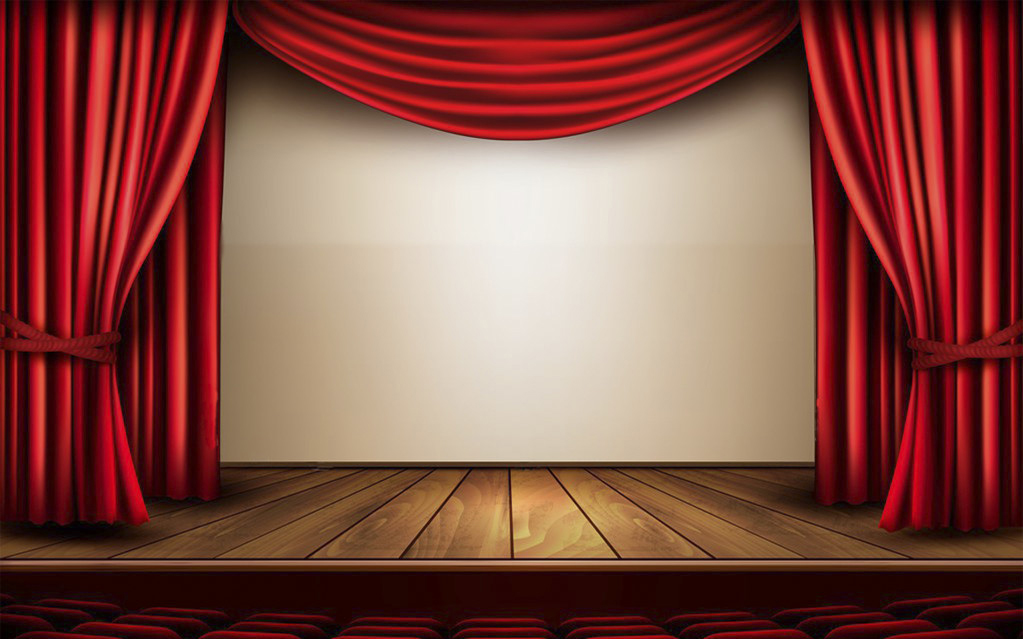
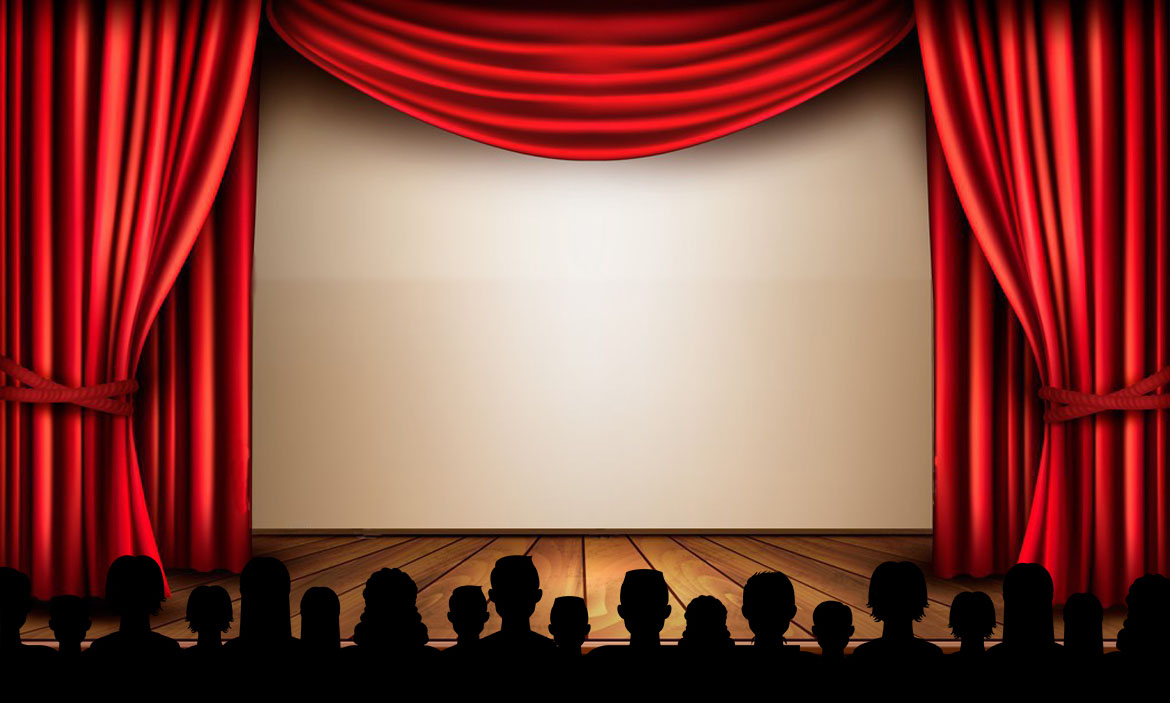
Изменение фона главной странцы (теперь фон слит с аудиторией)

diff --git a/wp-content/themes/vyorstka_tm_igra/public/css/style.css b/wp-content/themes/vyorstka_tm_igra/public/css/style.css
@@ -175,41 +175,43 @@ p {
     margin-top: -212px;
     text-align: center; }
     #fh5co-home .flexslider .fh5co-text .logo-container img.logo {
-      margin: auto 0;
-      max-width: 90%;
-      margin-top: 7%; }
+      max-width: 50%;
+      margin-top: 4%;
+      margin-left: -4%;
+      padding: 0 15px; }
+      @media screen and (min-width: 1400px) {
+        #fh5co-home .flexslider .fh5co-text .logo-container img.logo {
+          margin-top: 0; } }
       @media screen and (max-width: 768px) {
         #fh5co-home .flexslider .fh5co-text .logo-container img.logo {
-          margin-top: 110px;
-          padding: 0 20%; } }
+          margin-top: 135px; } }
       @media screen and (max-width: 480px) {
         #fh5co-home .flexslider .fh5co-text .logo-container img.logo {
-          margin-top: 150px;
-          padding: 0 15% 0 15%; } }
+          margin-top: 170px; } }
   #fh5co-home .flexslider .background {
     background-repeat: no-repeat;
-    background-size: 150% auto, cover;
-    background-position: 50% 100%, 50% 0;
-    position: relative;
-    overflow: hidden;
-    height: 100vh; }
+    background-size: 100% 100%;
+    background-position: 50% 0;
+    position: relative; }
     @media (min-width: 1200px) {
       #fh5co-home .flexslider .background {
         text-align: center; } }
     @media (max-width: 1200px) {
       #fh5co-home .flexslider .background {
-        background-size: 175% auto, cover;
+        background-size: 100% 100%;
         height: auto;
-        min-height: 600px; } }
+        min-height: inherit; } }
     @media (max-width: 767px) {
       #fh5co-home .flexslider .background {
-        background-position: 50% 100%, 50% 0 !important;
+        background-position: 50% 0 !important;
         height: auto;
-        min-height: 400px;
-        background-size: 200% auto, cover; } }
+        min-height: inherit;
+        background-size: 100% 100%; } }
     @media (max-width: 480px) {
       #fh5co-home .flexslider .background {
-        min-height: 280px; } }
+        min-height: inherit; } }
+    #fh5co-home .flexslider .background .opacity-helper-img {
+      width: 100%; }
     #fh5co-home .flexslider .background .slogan-container {
       position: absolute;
       top: 50px;

diff --git a/wp-content/themes/vyorstka_tm_igra/public/css/style.scss b/wp-content/themes/vyorstka_tm_igra/public/css/style.scss
@@ -299,45 +299,47 @@ p {
 			text-align: center;
 
 			.logo-container {
-
 				img.logo {
-					margin: auto 0;
-					max-width: 90%;
-					margin-top: 7%;
+					max-width: 50%;
+					margin-top: 4%;
+					margin-left: -4%;
+					padding: 0 15px;
+					@media screen and (min-width: 1400px) {
+						margin-top: 0;
+					}
 					@media screen and (max-width: $screen-sm) {
-						margin-top: 110px;
-						padding: 0 20%;
+						margin-top: 135px;
 					}
 					@media screen and (max-width: 480px) {
-						margin-top: 150px;
-						padding: 0 15% 0 15%;
+						margin-top: 170px;
 					}
 				}
 			}
 		}
 		.background {
 			background-repeat: no-repeat;
-			background-size: 150% auto, cover;
-			background-position: 50% 100%, 50% 0;
+			background-size: /* 150% auto,*/ 100% 100%;
+			background-position: /* 50% 100%,*/ 50% 0;
 			position: relative;
-			overflow: hidden;
-			height: 100vh;
 			@media (min-width: 1200px) {
 				text-align: center;
 			}
 			@media (max-width: 1200px) {
-				background-size: 175% auto, cover;
+				background-size: /* 175% auto,*/ 100% 100%;
 				height: auto;
-				min-height: 600px;
+				min-height: inherit;
 			}
 			@media (max-width: 767px) {
-				background-position: 50% 100%, 50% 0 !important;
+				background-position: /*50% 100%,*/ 50% 0 !important;
 				height: auto;
-				min-height: 400px;
-				background-size: 200% auto, cover;
+				min-height: inherit;
+				background-size: /*200% auto,*/ 100% 100%;
 			}
 			@media (max-width: 480px) {
-				min-height: 280px;
+				min-height: inherit;
+			}
+			.opacity-helper-img {
+				width: 100%;
 			}
 			.slogan-container {
 				position: absolute;

diff --git a/wp-content/themes/vyorstka_tm_igra/template-parts/content-index.php b/wp-content/themes/vyorstka_tm_igra/template-parts/content-index.php
@@ -5,19 +5,16 @@
 
 		<div class="fh5co-overlay"></div>
 		<div class="fh5co-text">
-			<div class="container">
-				<div class="row">
-					<div class="to-animate img-to-animate logo-container">
-						<img class="logo" src="<?=get_field('logo',4)?>">
-					</div>
-				</div>
+			<div class="to-animate img-to-animate logo-container">
+				<img class="logo" src="<?=get_field('logo',4)?>">
 			</div>
 		</div>
-		<div class="background" style="background-image: url(<?php bloginfo("template_directory") ?>/public/images/igra/audience.png), url('<?=get_the_post_thumbnail_url($obj->ID)?>');">
+		<div class="background" style="background-image: /* url(<?php bloginfo("template_directory") ?>/public/images/igra/audience.png) ,*/ url('<?=get_the_post_thumbnail_url($obj->ID)?>');">
 			<div class="to-animate img-to-animate slogan-container hidden-md hidden-sm">
 				<img class="slogan img-responsive" src="<?php bloginfo("template_directory") ?>/public/images/igra/slogan.png" alt="Слоган">
 			</div>
 			<img class="audience" src="">
+			<img src="<?=get_the_post_thumbnail_url($obj->ID)?>" class="img-responsive opacity-helper-img" style="opacity: 0">
 		</div>
 
 	</div>
